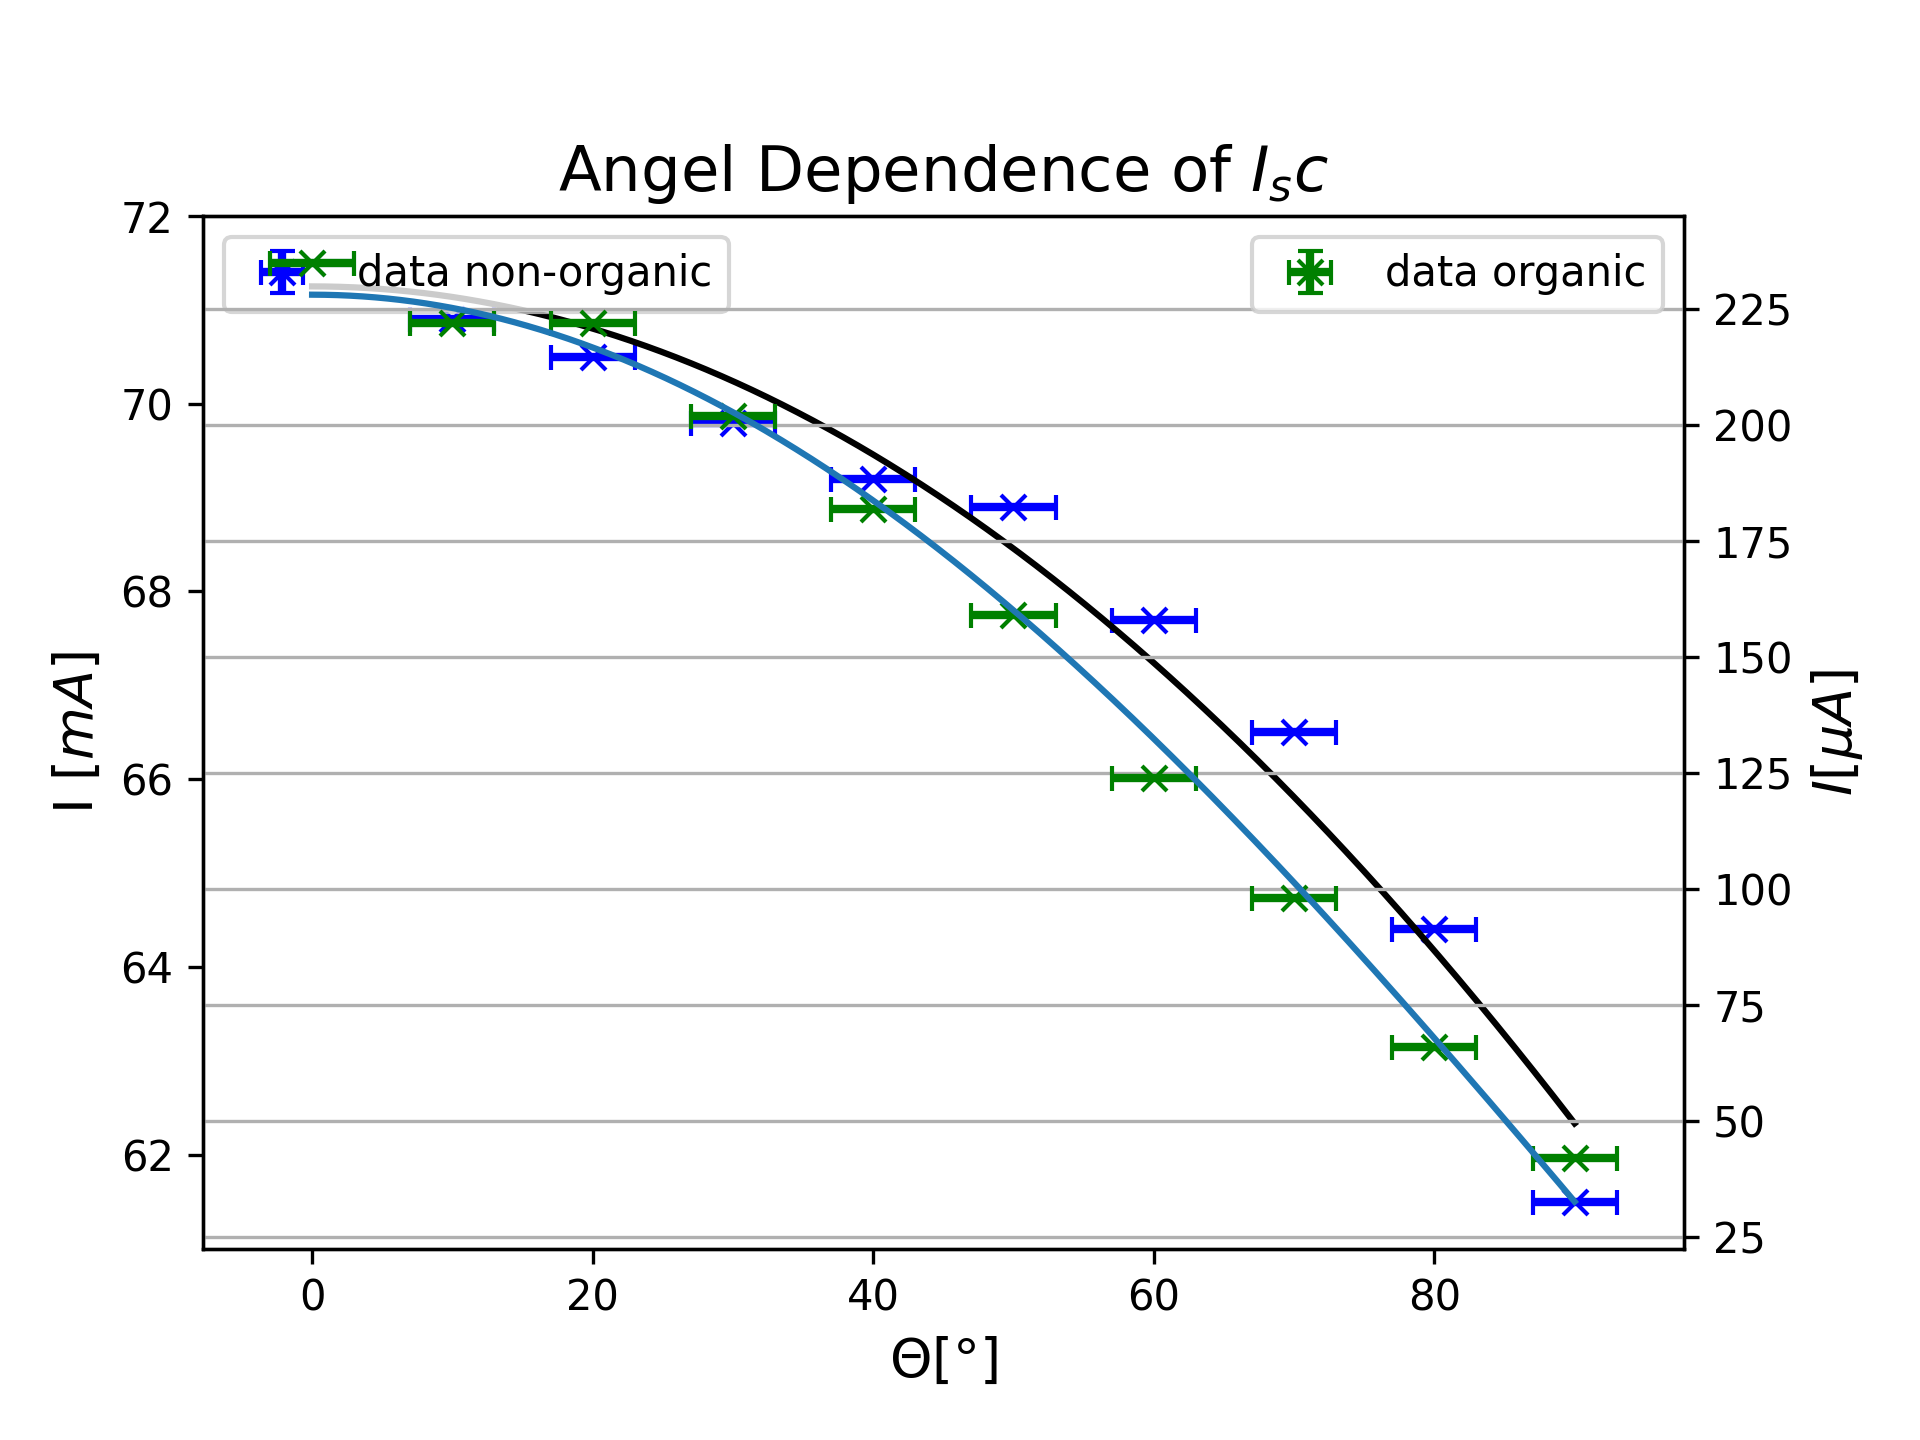
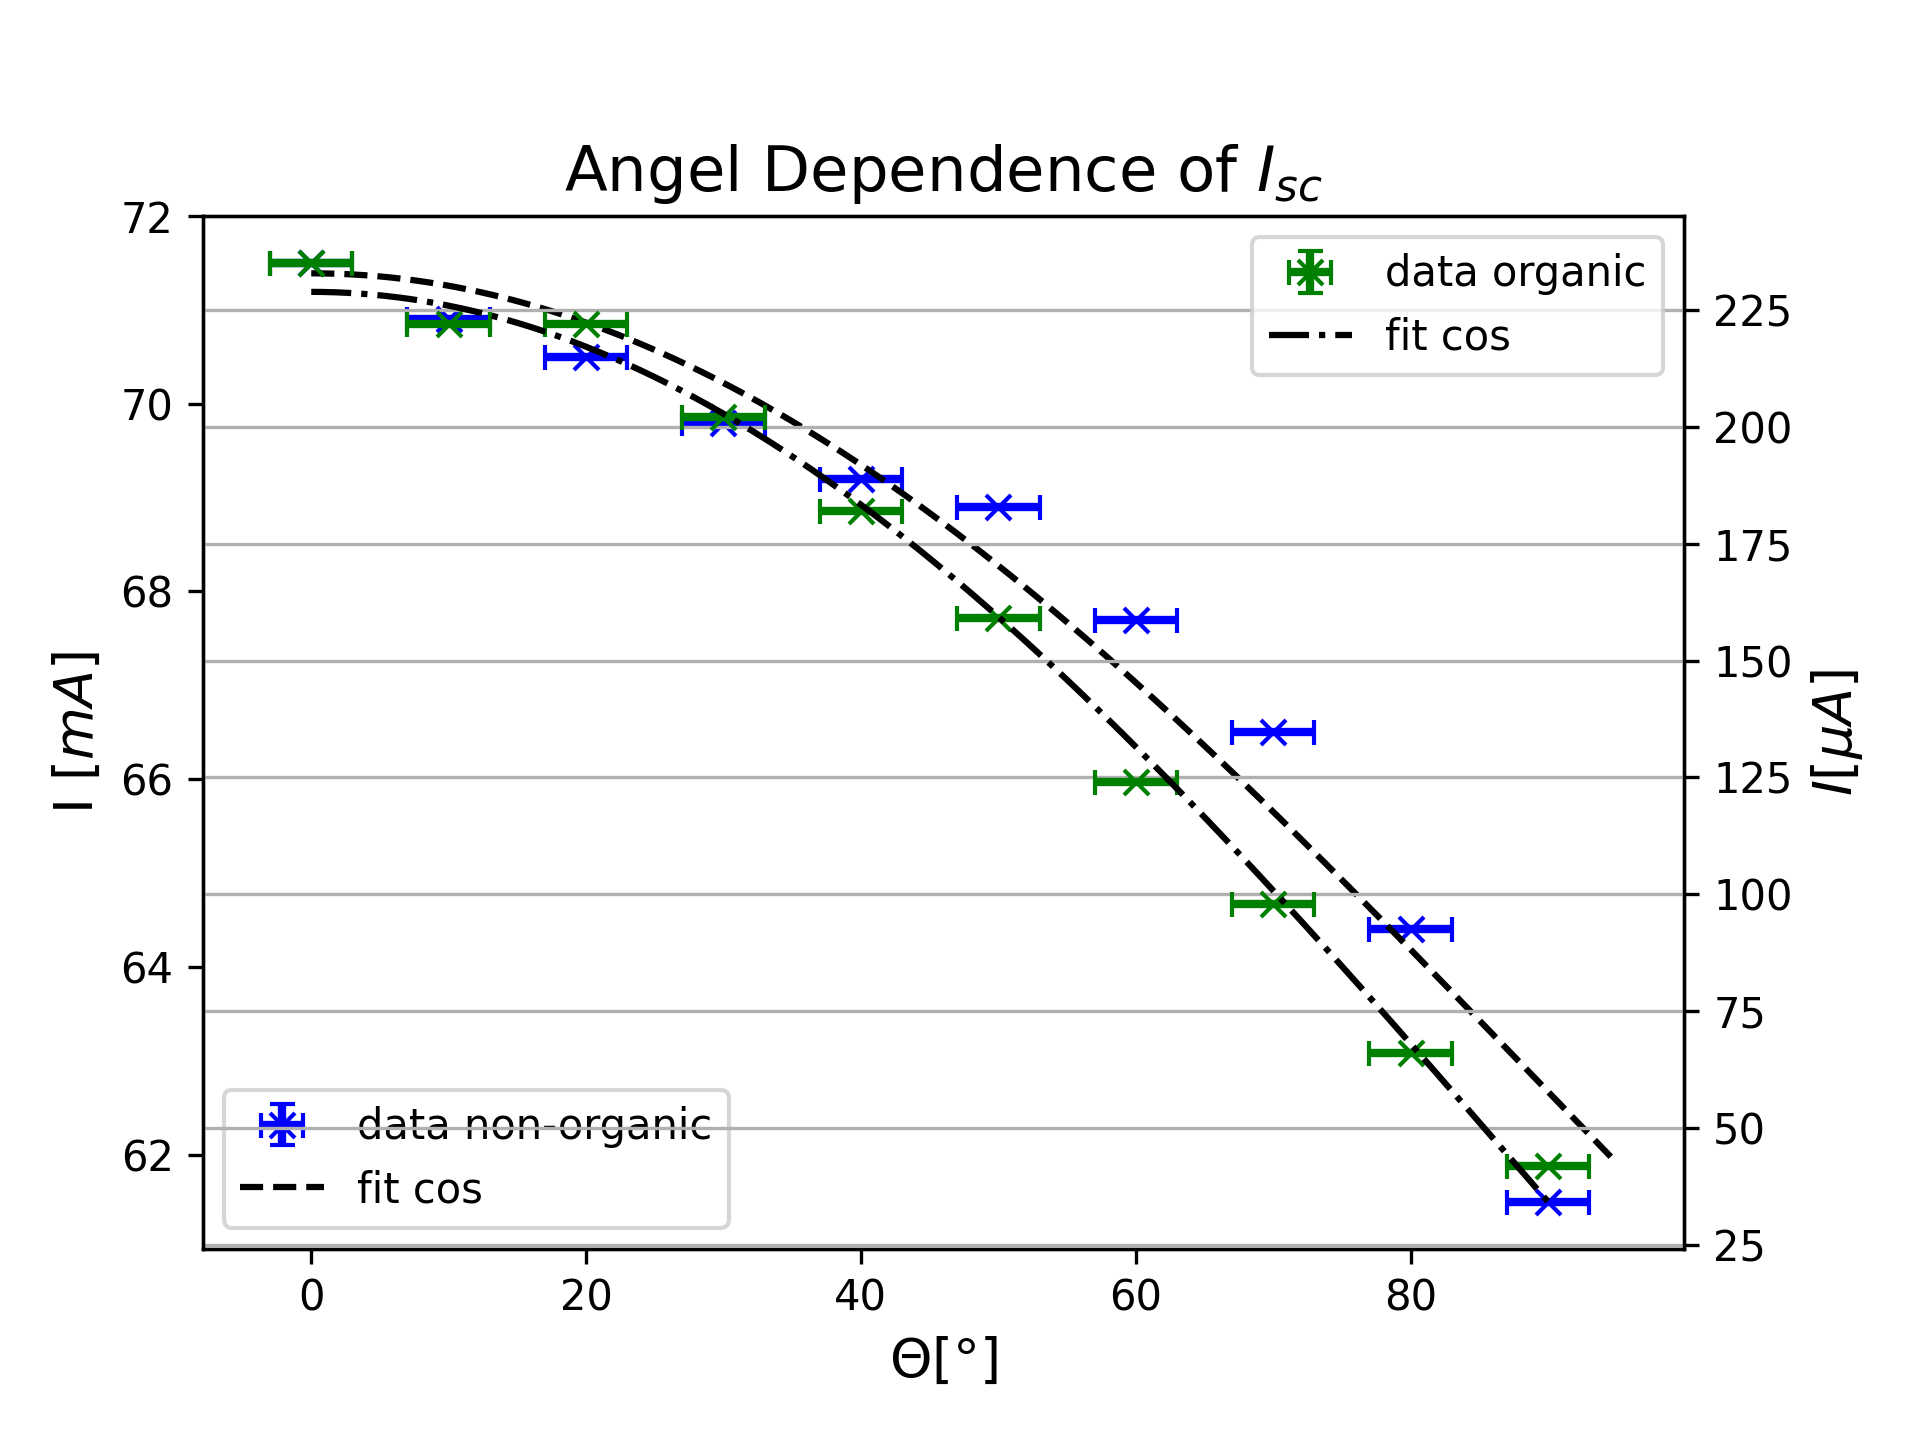
Das ist mein Code.

diff --git a/Auswertung.py b/Auswertung.py
@@ -62,12 +62,11 @@ r73_s2 = pd.read_csv("Daten/r73_s2,6.dat", sep = "\t", header = 8, \
     names = ["voltage / V", "current / A", "time"])
 
 
-
 #_______A________
 #Fit
 
 U_err = 0
-I_err = 0
+I_err = 0    #Temperaturabhngig!!!!
 
 T = 313
 
@@ -349,8 +348,9 @@ plt.clf()
 
 #___________E____________
 #fit
-def cos(x, a, b):
-    return b*np.cos(a*x)
+a = 2*np.pi/360
+def cos(x, b, c):
+    return b*np.cos(a*x) + c
 
 params_ao, params_cov_ao = optimize.curve_fit(cos, Kippung["Winkel[rad]"], Kippung["I_K,ano[mA]"], p0 = [0.01, 65])
 params_o, params_cov_o = optimize.curve_fit(cos, Kippung["Winkel[rad]"], Kippung["I_K,o[yA]"], p0 = [0.01, 65])
@@ -370,18 +370,18 @@ ax2.tick_params(axis='y', labelcolor=color)
 
 ax1.errorbar(Kippung["Winkel[rad]"], Kippung["I_K,ano[mA]"], xerr = theta_err, yerr = I_err,\
             linewidth = 2, color = "blue", capsize=3, fmt = "x")
-ax1.errorbar(np.linspace(0, 90, 1000), cos(np.linspace(0, 90, 1000), params_ao[0], params_ao[1]), color = "black")
+ax1.errorbar(np.linspace(0, 95, 1000), cos(np.linspace(0, 95, 1000), params_ao[0], params_ao[1]), color = "black", linestyle = "--")
 ax2.errorbar(Kippung["Winkel[rad]"], Kippung["I_K,o[yA]"], xerr = theta_err, yerr = I_err,\
             linewidth = 2, color = "green", capsize=3, fmt = "x")
-ax2.errorbar(np.linspace(0, 90, 1000), cos(np.linspace(0, 90, 1000), params_o[0], params_o[1]))
+ax2.errorbar(np.linspace(0, 90, 1000), cos(np.linspace(0, 90, 1000), params_o[0], params_o[1]), color = "black", linestyle = "-.")
 
-ax1.legend(['data non-organic'], loc = 2)
-ax2.legend(["data organic"], loc = 1)
+ax1.legend(['data non-organic', "fit cos"], loc = 3)
+ax2.legend(["data organic", "fit cos"], loc = 1)
 
 fig.tight_layout()  # otherwise the right y-label is slightly clipped
 plt.subplots_adjust(top=0.85)
 
-plt.title('Angel Dependence of $I_sc$', fontsize = 15)
+plt.title('Angel Dependence of $I_{sc}$', fontsize = 15)
 
 
 plt.grid(True)
